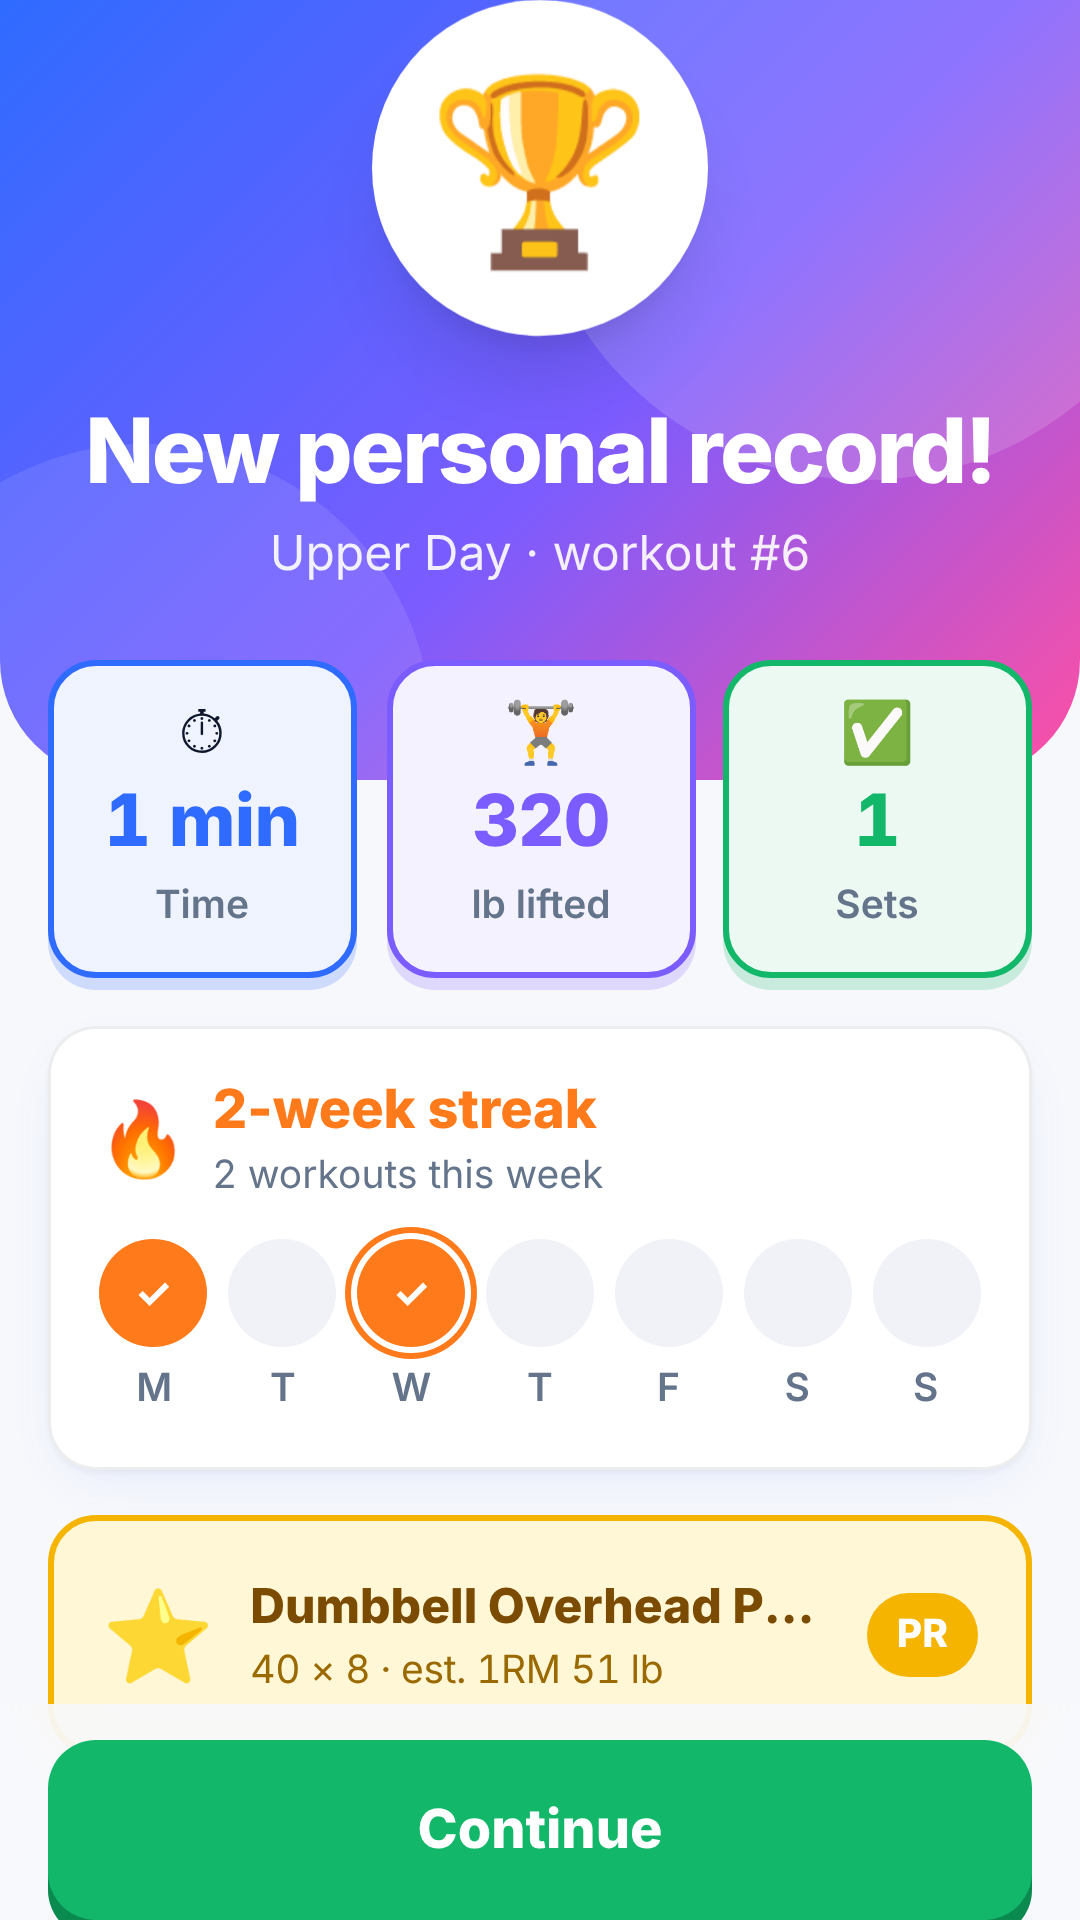
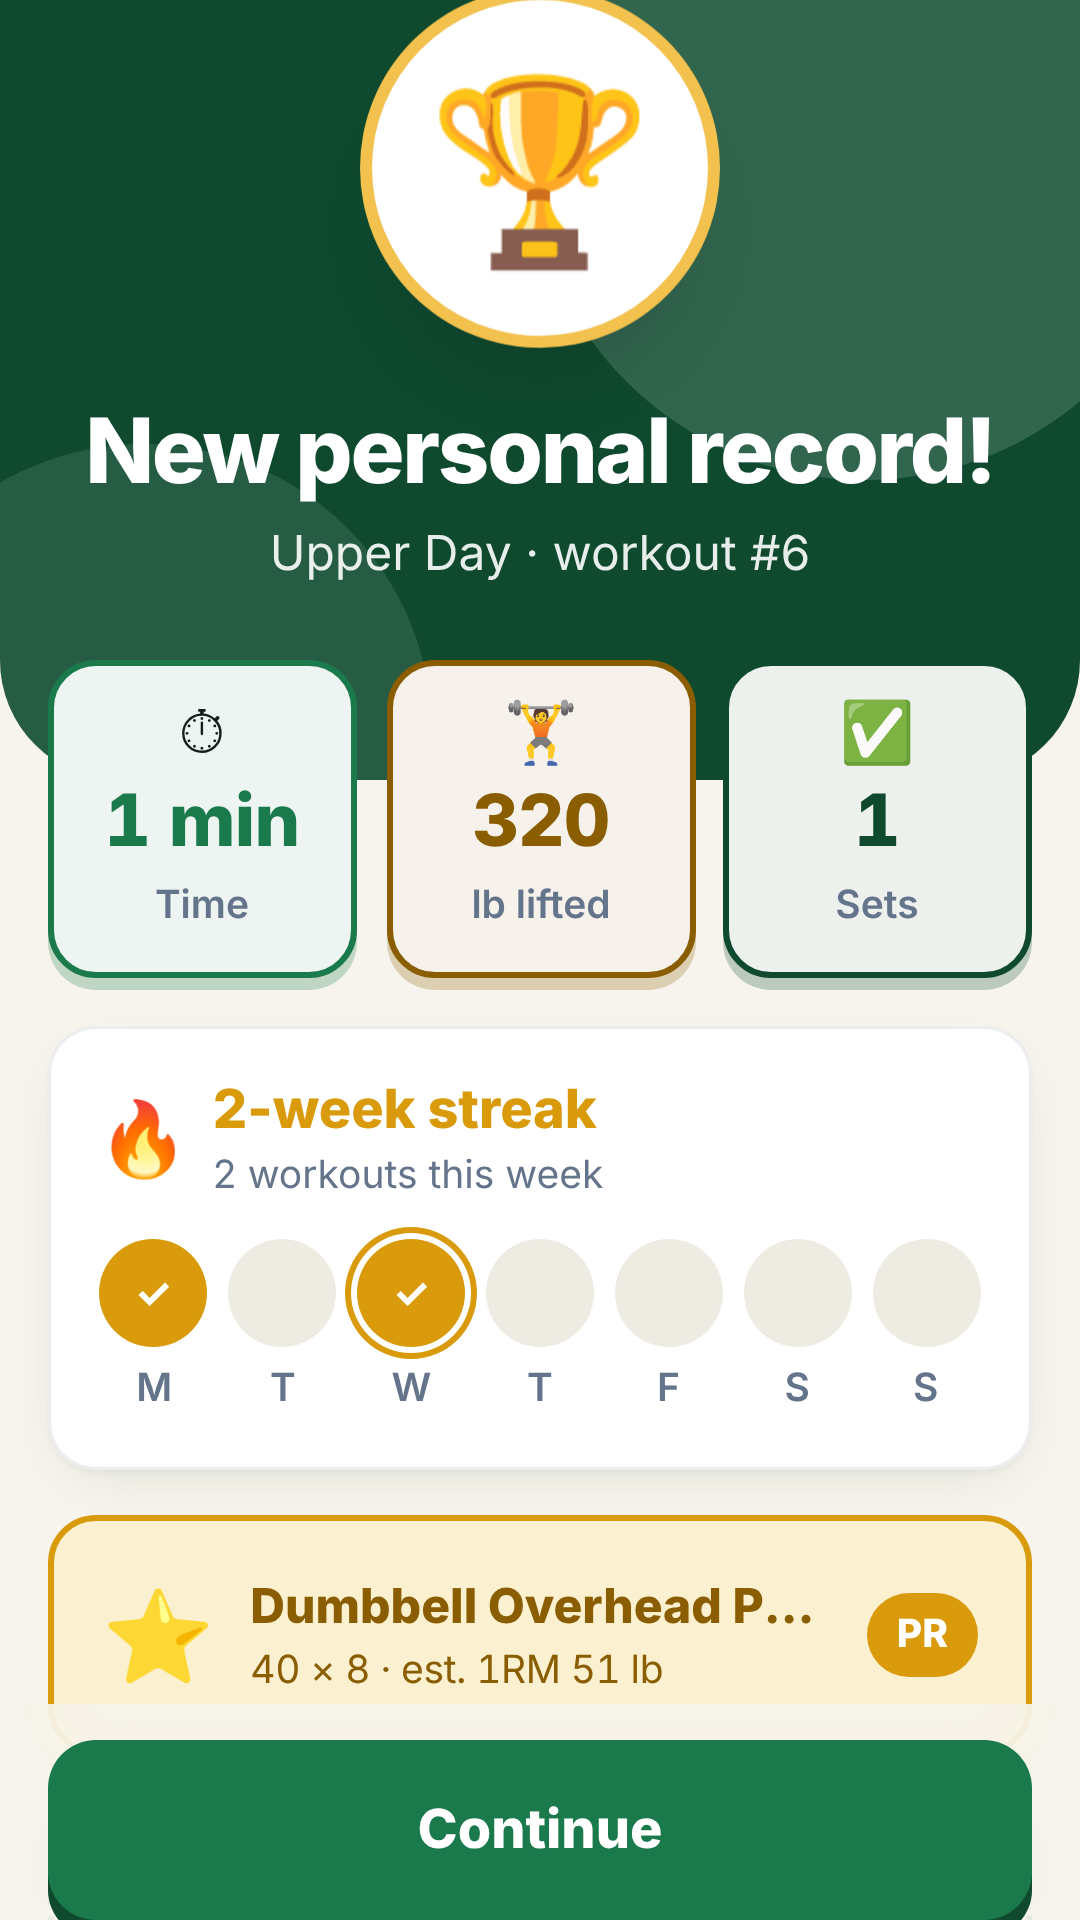
Recolor to green + gold, remove gradients
Flat deep-green hero, gold for wins (PRs, streak, share), warm paper ground,
green-black ink. Share card, OG image and screenshots regenerated.

Claude-Session: https://claude.ai/code/session_01R9BYkai142f5j4osDx3Xy9

diff --git a/src/views/WorkoutSummary.jsx b/src/views/WorkoutSummary.jsx
@@ -50,7 +50,7 @@ function StatChip({ value, display, label, icon, tint, delay }) {
   return (
     <div
       className="chip-in rounded-2xl p-3 text-center border-2 min-w-0"
-      style={{ animationDelay: `${delay}ms`, borderColor: tint, background: `linear-gradient(${tint}14, ${tint}14), #fff`, boxShadow: `0 4px 0 ${tint}33` }}
+      style={{ animationDelay: `${delay}ms`, borderColor: tint, background: `color-mix(in srgb, ${tint} 8%, #fff)`, boxShadow: `0 4px 0 color-mix(in srgb, ${tint} 25%, transparent)` }}
     >
       <div className="text-xl leading-none mb-1" aria-hidden="true">{icon}</div>
       <div className="num font-extrabold text-2xl truncate" style={{ color: tint }}>
@@ -207,12 +207,12 @@ export default function WorkoutSummary({ summary, history = [], onDone }) {
   return (
     <div className="min-h-screen pb-10">
       {/* Hero — Duolingo-style: big friendly badge, warm headline, one idea. */}
-      <div className="relative overflow-hidden bg-energy text-white px-4 pt-12 pb-16 safe-top text-center rounded-b-[2.5rem]">
+      <div className="relative overflow-hidden bg-hero px-4 pt-12 pb-16 safe-top text-center rounded-b-[2.5rem]">
         <div aria-hidden="true" className="absolute -top-16 -right-10 w-56 h-56 rounded-full bg-white/15" />
         <div aria-hidden="true" className="absolute -bottom-20 -left-12 w-48 h-48 rounded-full bg-white/10" />
         <div className="relative">
           <div className="bob inline-block">
-            <div className="badge-pop w-28 h-28 mx-auto rounded-full bg-white shadow-xl flex items-center justify-center text-6xl">
+            <div className="badge-pop w-28 h-28 mx-auto rounded-full bg-white shadow-xl ring-4 ring-[color:var(--gold-bright)] flex items-center justify-center text-6xl">
               {prs.length ? '🏆' : '💪'}
             </div>
           </div>
@@ -227,9 +227,9 @@ export default function WorkoutSummary({ summary, history = [], onDone }) {
 
       {/* Stat chips overlap the hero */}
       <div className="px-4 -mt-10 relative grid grid-cols-3 gap-2.5 mb-4">
-        <StatChip display={formatDuration(durationMs)} label="Time" icon="⏱" tint="#2f6bff" delay={420} />
-        <StatChip value={totalVolume} label="lb lifted" icon="🏋" tint="#7b5cff" delay={500} />
-        <StatChip value={completedSets} label="Sets" icon="✅" tint="#12b76a" delay={580} />
+        <StatChip display={formatDuration(durationMs)} label="Time" icon="⏱" tint="var(--brand)" delay={420} />
+        <StatChip value={totalVolume} label="lb lifted" icon="🏋" tint="var(--gold-deep)" delay={500} />
+        <StatChip value={completedSets} label="Sets" icon="✅" tint="var(--brand-deep)" delay={580} />
       </div>
 
       {/* Streak */}
@@ -274,16 +274,16 @@ export default function WorkoutSummary({ summary, history = [], onDone }) {
             <div
               key={i}
               className="chip-in rounded-2xl p-4 flex items-center gap-3 border-2"
-              style={{ animationDelay: `${900 + i * 120}ms`, borderColor: '#f5b400', background: '#fff7d6' }}
+              style={{ animationDelay: `${900 + i * 120}ms`, borderColor: 'var(--gold)', background: 'var(--gold-soft)' }}
             >
               <span className="text-3xl" aria-hidden="true">⭐</span>
               <div className="min-w-0 flex-1">
-                <div className="font-extrabold truncate" style={{ color: '#7a4b00' }}>{pr.name}</div>
-                <div className="num text-[13px]" style={{ color: '#9a6a00' }}>
+                <div className="font-extrabold truncate" style={{ color: 'var(--gold-deep)' }}>{pr.name}</div>
+                <div className="num text-[13px]" style={{ color: 'var(--gold-deep)' }}>
                   {pr.topSet ? `${pr.topSet.weight} × ${pr.topSet.reps}` : ''} · est. 1RM {pr.e1rm} lb
                 </div>
               </div>
-              <span className="text-[13px] font-extrabold px-2.5 py-1 rounded-full" style={{ background: '#f5b400', color: '#fff' }}>
+              <span className="text-[13px] font-extrabold px-2.5 py-1 rounded-full" style={{ background: 'var(--gold)', color: '#fff' }}>
                 PR
               </span>
             </div>
@@ -293,8 +293,8 @@ export default function WorkoutSummary({ summary, history = [], onDone }) {
 
       {/* Share — invite, image-first */}
       <div className="px-4 mb-5 chip-in" style={{ animationDelay: '1000ms' }}>
-        <div className="rounded-2xl p-4 text-center border-2 border-dashed" style={{ borderColor: '#c7d4ff', background: '#f3f6ff' }}>
-          <div className="font-extrabold text-lg" style={{ color: '#1e3a8a' }}>Share your win 🎉</div>
+        <div className="rounded-2xl p-4 text-center border-2 border-dashed" style={{ borderColor: 'var(--brand)', background: 'var(--brand-soft)' }}>
+          <div className="font-extrabold text-lg" style={{ color: 'var(--brand-deep)' }}>Share your win 🎉</div>
           <p className="text-[13px] text-gray-500 mb-3">
             Tag a friend — training is easier with a crew.
           </p>
@@ -302,7 +302,7 @@ export default function WorkoutSummary({ summary, history = [], onDone }) {
             onClick={handleShareImage}
             disabled={shareState === 'working'}
             className="btn-shine w-full text-white font-extrabold py-4 rounded-2xl text-lg"
-            style={{ background: 'var(--energy)', boxShadow: '0 6px 0 #2a4fd1', color: '#fff' }}
+            style={{ background: 'var(--gold)', boxShadow: '0 6px 0 var(--gold-deep)', color: '#1d1300' }}
           >
             {shareState === 'working'
               ? 'Making your card…'
@@ -364,7 +364,7 @@ export default function WorkoutSummary({ summary, history = [], onDone }) {
         <button
           onClick={onDone}
           className="max-w-md mx-auto block w-full text-white font-extrabold py-4 rounded-2xl text-lg"
-          style={{ background: 'var(--win)', boxShadow: '0 6px 0 #0b8a4f', color: '#fff' }}
+          style={{ background: 'var(--brand)', boxShadow: '0 6px 0 var(--brand-deep)', color: '#fff' }}
         >
           Continue
         </button>

diff --git a/src/index.css b/src/index.css
@@ -12,22 +12,28 @@
 }
 
 :root[data-theme='light'] {
-  /* "Light + energy" (Nabil, 2026-11-11): crisp near-white page, pure white
-     cards, ink text, one electric-blue primary with a violet kick for hero
-     moments, emerald = progress, orange = streak fire. */
-  --surface: 247 248 252;   /* #f7f8fc page */
+  /* Green + gold (Nabil, 2026-11-11, replaces the blue/violet gradient —
+     Hallmark floor 11): warm paper ground, white cards, green-black ink.
+     Green = the brand + every primary action. Gold = wins only (PRs, streak,
+     trophies). Flat colour, no gradients. */
+  --surface: 246 244 236;   /* #f6f4ec warm paper */
   --surface-800: 255 255 255;
-  --surface-700: 240 242 248;
-  --surface-600: 226 230 240;
-  --fg: 15 23 42;           /* #0f172a */
+  --surface-700: 238 236 226;
+  --surface-600: 224 221 207;
+  --fg: 18 32 24;           /* #122018 green-black ink */
 }
 
 :root {
-  --brand: #2f6bff;
-  --brand-2: #7b5cff;
-  --energy: linear-gradient(135deg, #2f6bff 0%, #7b5cff 55%, #ff4fa3 100%);
-  --fire: #ff7a1a;
-  --win: #12b76a;
+  --brand: #1a7a4c;        /* primary green */
+  --brand-deep: #0f4a2f;   /* hero ground, pressed edges */
+  --brand-soft: #e3f1e8;   /* tinted fills */
+  --gold: #d99a0b;         /* wins */
+  --gold-deep: #8a5d00;    /* gold text on light */
+  --gold-soft: #fbf0cf;
+  --gold-bright: #f2c14e;  /* gold on dark green */
+  --fire: var(--gold);
+  --win: var(--brand);
+  --on-brand: #ffffff;
   --ease-out: cubic-bezier(.16, 1, .3, 1);
   --ease-spring: cubic-bezier(.34, 1.56, .64, 1);
 }
@@ -124,13 +130,12 @@ button, .tap { min-height: 44px; min-width: 44px; }
 /* Primary buttons get the electric brand; cards lift with a soft colored shadow
    instead of a dark-mode hairline. */
 :root[data-theme='light'] .bg-blue-600 { background: var(--brand); }
-:root[data-theme='light'] .hover\:bg-blue-500:hover { background: #4a7dff; }
+:root[data-theme='light'] .hover\:bg-blue-500:hover { background: var(--brand-deep); }
 :root[data-theme='light'] .text-blue-400 { color: var(--brand); }
 :root[data-theme='light'] .bg-surface-800.rounded-2xl {
-  box-shadow: 0 1px 2px rgba(15, 23, 42, 0.04), 0 6px 20px -8px rgba(47, 107, 255, 0.14);
+  box-shadow: 0 1px 2px rgba(15, 23, 42, 0.04), 0 6px 20px -10px rgba(15, 74, 47, 0.18);
 }
-.bg-energy { background: var(--energy); }
-.text-energy { background: var(--energy); -webkit-background-clip: text; background-clip: text; color: transparent; }
+.bg-hero { background: var(--brand-deep); color: var(--on-brand); }
 :active { transition-duration: 80ms; }
 button:active, .tap:active { transform: scale(0.97); }
 
@@ -174,10 +179,15 @@ html[data-nav] .screen-fade { animation: none; }
 .flame { display: inline-block; animation: flicker 1.1s ease-in-out infinite; transform-origin: 50% 90%; }
 @keyframes shine { from { transform: translateX(-120%) skewX(-20deg); } to { transform: translateX(220%) skewX(-20deg); } }
 .btn-shine { position: relative; overflow: hidden; }
-.btn-shine::after { content: ''; position: absolute; inset: 0; width: 40%; background: linear-gradient(90deg, transparent, rgba(255,255,255,.45), transparent); animation: shine 2.6s var(--ease-out) 1.4s infinite; }
+.btn-shine::after { content: ''; position: absolute; inset: 0; width: 40%; background: linear-gradient(90deg, transparent, rgba(255,255,255,.3), transparent); animation: shine 2.6s var(--ease-out) 1.4s infinite; }
 
 @media (prefers-reduced-motion: reduce) {
   ::view-transition-group(*), ::view-transition-old(*), ::view-transition-new(*) { animation: none !important; }
   .badge-pop, .bob, .chip-in, .dot-fill, .flame, .btn-shine::after { animation: none !important; }
   button:active, .tap:active { transform: none; }
 }
+
+:root[data-theme='light'] .text-blue-300 { color: var(--brand-deep); }
+:root[data-theme='light'] .bg-blue-500\/10 { background-color: var(--brand-soft); }
+:root[data-theme='light'] .ring-blue-500\/30, :root[data-theme='light'] .border-blue-500\/30 { --tw-ring-color: rgba(26,122,76,.3); border-color: rgba(26,122,76,.3); }
+:focus-visible { outline: 2px solid var(--brand); outline-offset: 3px; transition: none; }

diff --git a/src/lib/shareCard.js b/src/lib/shareCard.js
@@ -30,12 +30,8 @@ export async function renderShareCard({ summary, streak }) {
   const ctx = c.getContext('2d')
   const font = (wt, px) => `${wt} ${px}px "Inter Variable", Inter, system-ui, sans-serif`
 
-  // energy gradient background
-  const g = ctx.createLinearGradient(0, 0, W, H)
-  g.addColorStop(0, '#2f6bff')
-  g.addColorStop(0.55, '#7b5cff')
-  g.addColorStop(1, '#ff4fa3')
-  ctx.fillStyle = g
+  // flat deep green ground, gold accents (matches the app tokens)
+  ctx.fillStyle = '#0f4a2f'
   ctx.fillRect(0, 0, W, H)
 
   // soft blobs
@@ -61,9 +57,9 @@ export async function renderShareCard({ summary, streak }) {
   ctx.fillStyle = '#ffffff'
   ctx.fill()
   const stats = [
-    { v: formatDuration(summary.durationMs), l: 'TIME', col: '#2f6bff' },
-    { v: summary.totalVolume.toLocaleString(), l: 'LB LIFTED', col: '#7b5cff' },
-    { v: String(summary.completedSets), l: 'SETS', col: '#12b76a' },
+    { v: formatDuration(summary.durationMs), l: 'TIME', col: '#1a7a4c' },
+    { v: summary.totalVolume.toLocaleString(), l: 'LB LIFTED', col: '#8a5d00' },
+    { v: String(summary.completedSets), l: 'SETS', col: '#0f4a2f' },
   ]
   stats.forEach((s, i) => {
     const cx = 80 + ((W - 160) / 3) * (i + 0.5)
@@ -82,7 +78,7 @@ export async function renderShareCard({ summary, streak }) {
   ctx.fillText(prLine, W / 2, 880)
 
   if (streak > 1) {
-    ctx.fillStyle = '#fff'
+    ctx.fillStyle = '#f2c14e'
     ctx.font = font(800, 64)
     ctx.fillText(`🔥 ${streak}-week streak`, W / 2, 1090)
   }

diff --git a/index.html b/index.html
@@ -5,7 +5,7 @@
     <meta name="viewport" content="width=device-width, initial-scale=1.0, maximum-scale=1.0, user-scalable=no, viewport-fit=cover">
     <title>Lift More: Track & Visualize</title>
     <meta name="description" content="Plan your training week, run guided sessions with a rest timer, and track lift progression — all stored on your device.">
-    <meta name="theme-color" content="#f7f8fc">
+    <meta name="theme-color" content="#f6f4ec">
     <link rel="canonical" href="https://lift-more.netlify.app/">
     <meta property="og:type" content="website">
     <meta property="og:site_name" content="Lift More">

diff --git a/vite.config.js b/vite.config.js
@@ -27,8 +27,8 @@ export default defineConfig({
         scope: '/',
         display: 'standalone',
         orientation: 'portrait',
-        background_color: '#f7f8fc',
-        theme_color: '#f7f8fc',
+        background_color: '#f6f4ec',
+        theme_color: '#f6f4ec',
         categories: ['health', 'fitness', 'lifestyle'],
         shortcuts: [
           { name: "Today's workout", short_name: 'Today', url: '/?view=schedule', icons: [{ src: 'pwa-192.png', sizes: '192x192' }] },

diff --git a/src/lib/theme.js b/src/lib/theme.js
@@ -16,7 +16,7 @@ export function applyTheme(theme) {
   const root = document.documentElement
   root.dataset.theme = theme
   const meta = document.querySelector('meta[name="theme-color"]')
-  if (meta) meta.setAttribute('content', theme === 'light' ? '#f7f8fc' : '#0a0f1a')
+  if (meta) meta.setAttribute('content', theme === 'light' ? '#f6f4ec' : '#0a0f1a')
 }
 
 /** Called once at startup (before React renders) to avoid a flash. */
